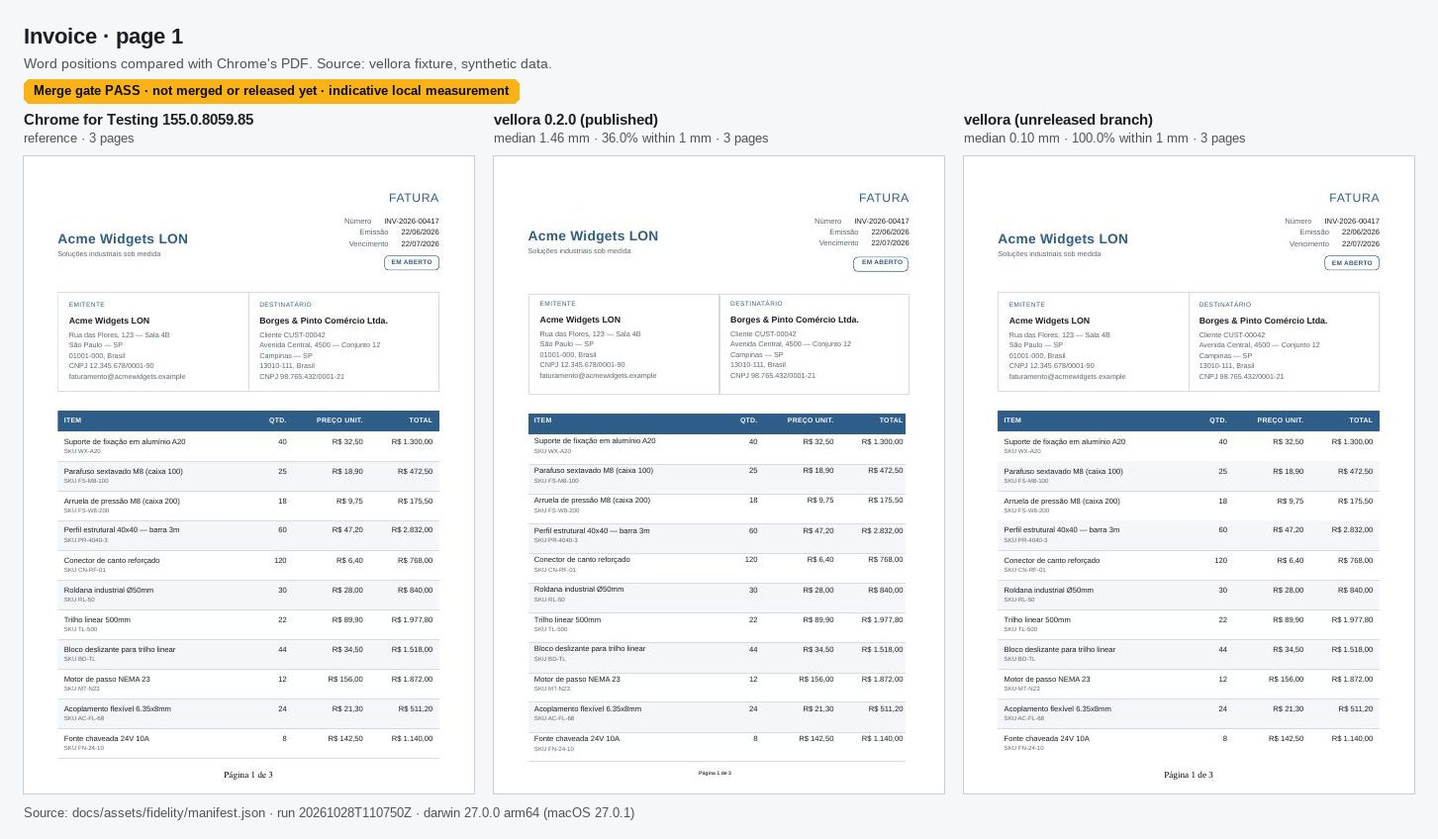
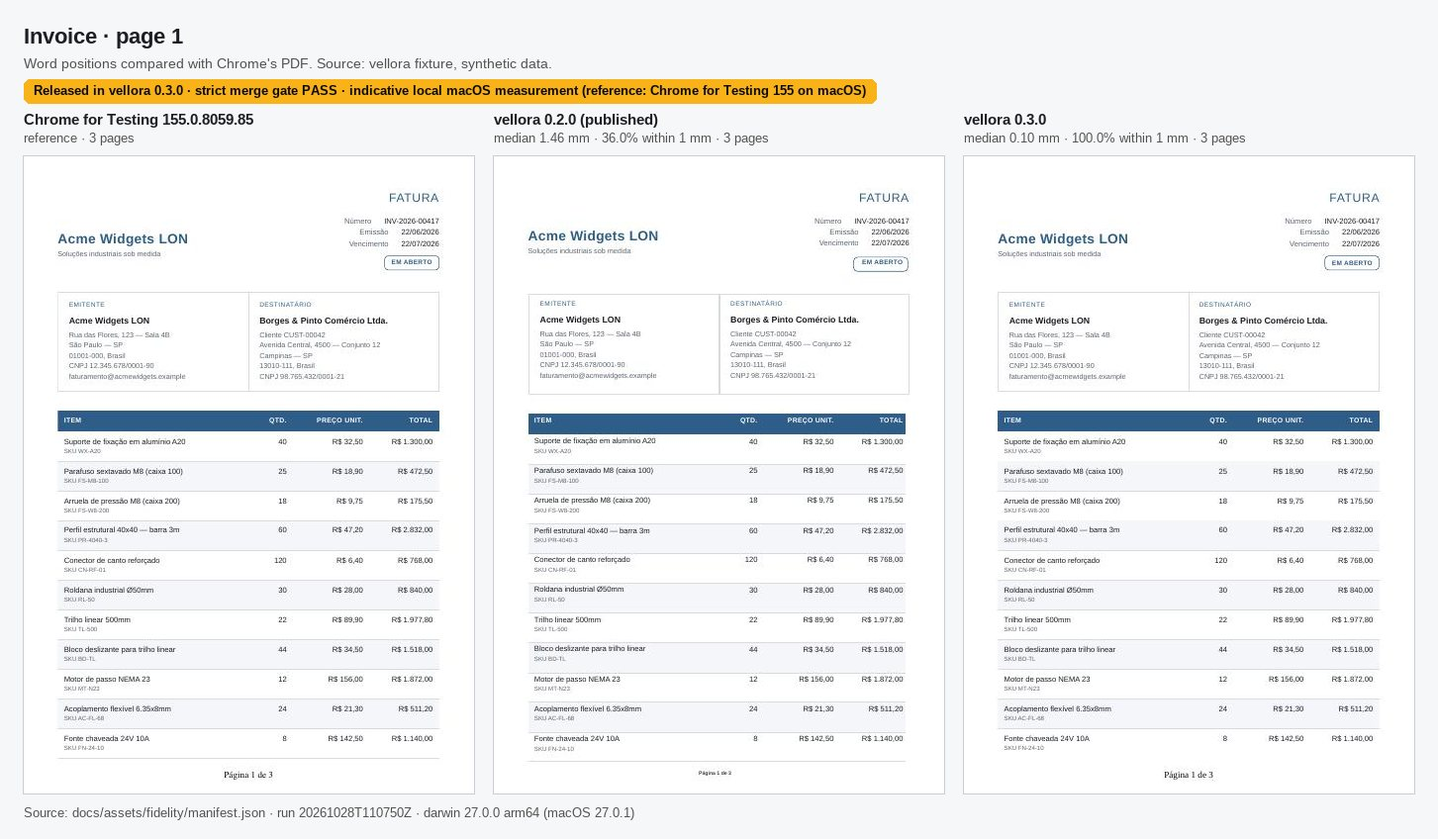
docs(fidelity): evidence released in vellora 0.3.0
Regenerate every asset from the c07 gated run with --release 0.3.0: the 12
page composites, the 3 charts, og.jpg, manifest.json and the generated blocks
in README.md, docs/guide/fidelity.md and both blog posts. Inputs are the ones
the committed manifest already records (docs-c07/visual-compare, the run's
gate-contract/gate-report.json with verdict PASS, and
c07-docs/paint-probe-pin-v0.2.0.json); their sha256 values are unchanged.

The manifest's numbers do not change: with released, release, authority,
the two after labels, commands and image hashes removed, the old and new
manifests are identical (jq -S diff).

Generator: the README block gains the WPT count as a fourth headline bullet,
and the released chart footer puts the source on its own line so the stamp
fits the 760 px width.

Prose: the guide, both blog posts, the blog index and llms.txt no longer say
not merged or released. The guide and the beta.4 post state that the measured
commit aa41259 has the same crates/, packages/, Cargo.toml and Cargo.lock as
the v0.3.0 release commit c40b3c2, and the beta.4 post's "Why it is not
released yet" becomes "How the release was gated", with the one class-b key
shipped as recorded debt and tracked in #48.

Changed region(s): [[0.031, 0.092, 0.6194, 0.1226], [0.7123, 0.1226, 0.8052, 0.1533]]

diff --git a/docs/blog/native-pdf-fidelity-blitz-beta4.md b/docs/blog/native-pdf-fidelity-blitz-beta4.md
@@ -6,8 +6,8 @@ description: How vellora moved its browserless renderer to Blitz 0.3.0-beta.4, b
 # Word by word against Chrome: measuring vellora's native PDFs
 
 <!-- fidelity-evidence:status -->
-::: tip PASS
-**This run passes the strict merge gate (verdict PASS, --contract). The branch is not merged or released yet:** it is to be merged in vellora vX.Y.Z (placeholder; the release sets the version). INDICATIVE: local macOS measurement. The authoritative run is pinned Linux CI, which is not wired yet; these numbers will be regenerated from it when it runs. The released package is vellora@0.2.0.
+::: tip Released in vellora 0.3.0
+The measured run passed the strict merge gate (verdict PASS, --contract). INDICATIVE: local macOS measurement. The authoritative run is pinned Linux CI, which is not wired yet; these numbers will be regenerated from it when it runs. Before is vellora@0.2.0, the previous release.
 :::
 <!-- /fidelity-evidence:status -->
 
@@ -17,9 +17,9 @@ output lands from what Chrome prints for the same HTML. This post answers it wit
 also covers the work that moved the numbers, and the parts that are still open.
 
 <!-- fidelity-evidence:hero -->
-![DANFE (NF-e invoice), page 1, side by side: Chrome for Testing 155.0.8059.85 (reference), vellora 0.2.0 (published), vellora (unreleased branch). Synthetic document data.](/assets/fidelity/danfe-p1.jpg)
+![DANFE (NF-e invoice), page 1, side by side: Chrome for Testing 155.0.8059.85 (reference), vellora 0.2.0 (published), vellora 0.3.0. Synthetic document data.](/assets/fidelity/danfe-p1.jpg)
 
-<sub>DANFE (NF-e invoice), page 1. Left to right: Chrome for Testing 155.0.8059.85 (reference), vellora 0.2.0 (published), vellora (unreleased branch). Median word-position error 17.68 mm → 0.21 mm; words within 1 mm 8.9% → 100.0%; pages 2 → 1 (Chrome: 1). Synthetic data.</sub>
+<sub>DANFE (NF-e invoice), page 1. Left to right: Chrome for Testing 155.0.8059.85 (reference), vellora 0.2.0 (published), vellora 0.3.0. Median word-position error 17.68 mm → 0.21 mm; words within 1 mm 8.9% → 100.0%; pages 2 → 1 (Chrome: 1). Synthetic data.</sub>
 <!-- /fidelity-evidence:hero -->
 
 ## The short version
@@ -30,9 +30,9 @@ also covers the work that moved the numbers, and the parts that are still open.
 - **9 of 9 fixtures** print the same number of pages as Chrome. vellora 0.2.0 (published): 6 of 9.
 <!-- /fidelity-evidence:headline -->
 
-"Before" is always the published package, vellora 0.2.0, which is what `npm install vellora`
-gives you today. "After" is a branch that passes its merge gate on the run measured here, and that
-has not been merged or released yet.
+"Before" is always vellora 0.2.0, the previous release; "the published package" below means
+0.2.0. "After" is vellora 0.3.0, released on 2026-10-28. Its numbers were measured on commit
+`aa41259`, whose engine and package code is identical to the `v0.3.0` release commit `c40b3c2`.
 
 ## Measure first, then change the engine
 
@@ -59,7 +59,7 @@ The rest of the work was judged by these instruments, not by eye.
 ## Blitz 0.3.0-beta.4, from crates.io
 
 vellora lays out HTML with [Blitz](https://github.com/DioxusLabs/blitz), and the published package
-uses a git revision of Blitz's 0.3.0-alpha.5 line. The branch moves to the 0.3.0-beta.4 release
+uses a git revision of Blitz's 0.3.0-alpha.5 line. vellora 0.3.0 moves to the 0.3.0-beta.4 release
 from crates.io, with no fork, and ports vellora's own layout layers to it. All Blitz access stays
 behind one module of vellora, so an upstream change is contained in one file.
 
@@ -112,7 +112,7 @@ block. The step that found this is recorded in
 [`fidelity/gate/snapshots/2026-10-28/c04/floats/README.md`](https://github.com/diomalta/vellora/blob/fidelity-archive-2026-10-28/fidelity/gate/snapshots/2026-10-28/c04/floats/README.md)
 (evidence archive, tag `fidelity-archive-2026-10-28`, commit `b5c9546`).
 
-The branch turns the feature on. That is a crates.io feature switch, not a fork. It also exposed
+vellora 0.3.0 turns the feature on. That is a crates.io feature switch, not a fork. It also exposed
 two bugs in the crates.io stack. One is in Taffy's fit test for a box placed next to a float. The
 other is in where Blitz places a float on a line that cannot wrap. Both are compensated, with
 canaries. Where engines disagree about a float on a no-wrap line, vellora follows Chrome.
@@ -157,7 +157,7 @@ Chrome's shows that the segments exist. It does not show that each one sits exac
 puts it.
 
 <!-- fidelity-evidence:paint -->
-Vector paint read from each PDF (PyMuPDF get_drawings and text spans): dashed/dotted border segments, text-decoration underlines, and whether the page canvas colour matches Chrome's. Report-only: no gate rule reads it. Each cell reads vellora 0.2.0 (published) → vellora (unreleased branch). Both are probed against this run's Chrome PDFs (the published package's PDFs through `paint-probe.mjs --subject`; the generator checks that Chrome's side of both probes agrees).
+Vector paint read from each PDF (PyMuPDF get_drawings and text spans): dashed/dotted border segments, text-decoration underlines, and whether the page canvas colour matches Chrome's. Report-only: no gate rule reads it. Each cell reads vellora 0.2.0 (published) → vellora 0.3.0. Both are probed against this run's Chrome PDFs (the published package's PDFs through `paint-probe.mjs --subject`; the generator checks that Chrome's side of both probes agrees).
 
 | Fixture | Dashed/dotted border segments, vellora / Chrome | Underlines, vellora / Chrome | Pages whose canvas colour differs from Chrome's | Probe flags |
 |---|---:|---:|---:|---:|
@@ -178,7 +178,7 @@ column lines, so the end dash of one cell overlaps the first dash of the next.
 Blitz 0.3.0-beta.4 and its layout engine, Taffy 0.15.0, have no multi-column layout and no ruby
 layout. Stylo computes `column-count` and `column-width`, and nothing reads them, so a
 `columns: 2` box was laid out as one column. Ruby annotations were printed inline, after their
-base text. The branch lays out both in vellora, behind the same single Blitz module, following
+base text. vellora 0.3.0 lays out both itself, behind the same single Blitz module, following
 Chrome's print output. A canary fails once Blitz lays multicol out itself.
 
 The first multi-column step also lost some fragmentation tests that passed before. In those tests,
@@ -226,22 +226,23 @@ What this costs, and what is still missing:
   print moves them; vellora lays them out side by side on the first page, the way Chrome lays
   them out on screen. That is why `flex-fragmented-with-float-descendant-001` is flagged. The
   harness compares only page 1 of this screen-mode test, and there vellora's ink covers more
-  columns than Chrome's. vellora also does not paint `outline`, which that test uses.
+  columns than Chrome's. vellora also does not paint `outline`, which that test uses. Both gaps
+  are tracked in [issue #48](https://github.com/diomalta/vellora/issues/48).
   One fragmentation test that the columns exposed, with a float beside a line
   (`widows-orphans-021`), still fails. It failed in the published package too.
 
 ## Results
 
 <!-- fidelity-evidence:charts -->
-![Median word-position error per fixture, vellora 0.2.0 (published) vs vellora (unreleased branch), log scale](/assets/fidelity/median-mm.svg)
+![Median word-position error per fixture, vellora 0.2.0 (published) vs vellora 0.3.0, log scale](/assets/fidelity/median-mm.svg)
 
-![Share of words within 1 mm of Chrome per fixture, vellora 0.2.0 (published) vs vellora (unreleased branch)](/assets/fidelity/within-1mm.svg)
+![Share of words within 1 mm of Chrome per fixture, vellora 0.2.0 (published) vs vellora 0.3.0](/assets/fidelity/within-1mm.svg)
 <!-- /fidelity-evidence:charts -->
 
 <!-- fidelity-evidence:table -->
-Each cell reads vellora 0.2.0 (published) → vellora (unreleased branch). Reference: Chrome for Testing 155.0.8059.85.
+Each cell reads vellora 0.2.0 (published) → vellora 0.3.0. Reference: Chrome for Testing 155.0.8059.85.
 
-| Fixture | Chrome words | Median error (mm) | p90 error (mm) | Words within 1 mm | Chrome words unpaired | Pages: 0.2.0 / branch / Chrome |
+| Fixture | Chrome words | Median error (mm) | p90 error (mm) | Words within 1 mm | Chrome words unpaired | Pages: 0.2.0 / 0.3.0 / Chrome |
 |---|---:|---:|---:|---:|---:|---:|
 | Invoice (`invoice`) | 541 | 1.46 → 0.10 | 1.73 → 0.28 | 36.0% → 100.0% | 0 → 0 | 3 / 3 / 3 |
 | Receipt (`receipt`) | 151 | 5.18 → 0.05 | 77.00 → 0.11 | 7.9% → 100.0% | 0 → 0 | 2 / 2 / 2 |
@@ -260,7 +261,7 @@ Each cell reads vellora 0.2.0 (published) → vellora (unreleased branch). Refer
 - **oss-postmark-receipt: 97.2% of words within 1 mm** (vellora 0.2.0 (published): 40.0%); p90 error 0.14 mm.
 - **WPT:** 4,553 of 8,047 reftests pass (56.58%); 4,028 (50.06%) pass without any suspect-pass flag. 2,608 still fail and 877 are rejected as outside the strict subset.
 - **Merge gate: verdict PASS** on this run (strict contract, --contract), 0 gating items. Every condition is met. What each condition still lets through is listed with it.
-  - (1) pin view (--main): no item worse than the published package unless the gate classifies it (class a: the old pass was false; class b: carried in the debt ledger): **met**. Passed with the published engine and not matched on the branch: 6 WPT tests. Class a (the old pass was false, or Chrome fails it too): `css/CSS2/floats/float-nowrap-8.html`, `css/css-page/page-name-flex-001-print.html`, `css/css-page/page-name-flex-002-print.html`, `css/css-page/page-name-flex-004-print.html`, `css/css-text/hanging-punctuation/hanging-punctuation-first-002.html`. Class b (recorded in the debt ledger, not fixed): pass on the branch with a suspect-pass flag, which the gate scores as worse than the published package's clean pass: `css/css-break/flexbox/flex-fragmented-with-float-descendant-001.html` (flag `ink-displaced-vs-chrome`; raw Blitz: fail). 10 tests that failed before are now rejected by the strict subset.
+  - (1) pin view (--main): no item worse than the published package unless the gate classifies it (class a: the old pass was false; class b: carried in the debt ledger): **met**. Passed with the published engine and not matched in 0.3.0: 6 WPT tests. Class a (the old pass was false, or Chrome fails it too): `css/CSS2/floats/float-nowrap-8.html`, `css/css-page/page-name-flex-001-print.html`, `css/css-page/page-name-flex-002-print.html`, `css/css-page/page-name-flex-004-print.html`, `css/css-text/hanging-punctuation/hanging-punctuation-first-002.html`. Class b (recorded in the debt ledger, not fixed): pass in 0.3.0 with a suspect-pass flag, which the gate scores as worse than the published package's clean pass: `css/css-break/flexbox/flex-fragmented-with-float-descendant-001.html` (flag `ink-displaced-vs-chrome`; raw Blitz: fail). 10 tests that failed before are now rejected by the strict subset.
   - (2) every fixture's median error and share within 1 mm at least as good as the published package's: **met**.
   - (3) every fixture's page count equal to Chrome's: **met**.
   - (4) step-to-step ratchet: no regression against the previous gated step, and the head view (against the chain's first step) passes: **met**. Head view: PASS; 1 test carried in the debt ledger (`css/css-break/flexbox/flex-fragmented-with-float-descendant-001.html`); 5 items accepted as class a, with the evidence in the acceptance file.
@@ -273,13 +274,13 @@ an oracle artefact.
 ## WPT: coverage, not a score
 
 <!-- fidelity-evidence:wpt-chart -->
-![WPT reftests passed: vellora 0.2.0 (published) engine, vellora (unreleased branch), Chrome reference](/assets/fidelity/wpt-pass-rate.svg)
+![WPT reftests passed: vellora 0.2.0 (published) engine, vellora 0.3.0, Chrome reference](/assets/fidelity/wpt-pass-rate.svg)
 <!-- /fidelity-evidence:wpt-chart -->
 
 <!-- fidelity-evidence:wpt -->
 WPT reftests passed through the vellora pipeline, printed to PDF and compared with the reference page: coverage of the CSS test subset the harness runs, not a document-quality score.
 
-| | Blitz 0.3.0-alpha.5 engine of vellora 0.2.0 (baseline commit with layout instrumentation) | vellora (unreleased branch) (Blitz 0.3.0-beta.4, crates.io) | Chrome/155.0.8059.85 through the same harness |
+| | Blitz 0.3.0-alpha.5 engine of vellora 0.2.0 (baseline commit with layout instrumentation) | vellora 0.3.0 (Blitz 0.3.0-beta.4, crates.io) | Chrome/155.0.8059.85 through the same harness |
 |---|---:|---:|---:|
 | Reftests | 8,047 | 8,047 | 8,046 |
 | Pass | 2,578 (32.04%) | 4,553 (56.58%) | 7,258 (90.21%) |
@@ -293,10 +294,10 @@ The WPT number shows how much of the CSS test subset now renders the way the ref
 Many of those tests exercise features no invoice uses. Others are rejected on purpose by vellora's
 strict subset. Read it as coverage. The document fixtures above are the measure of document output.
 
-## Why it is not released yet
+## How the release was gated
 
-The branch merges only when a strict oracle contract passes on one gated run. Four conditions
-must all hold:
+vellora 0.3.0 was merged only after a strict oracle contract passed on one gated run. Four
+conditions must all hold:
 
 1. No measured item may be worse than in the published package unless the gate classifies it with
    evidence. Class a means the old pass was false. Class b means it is carried in the debt
@@ -309,17 +310,16 @@ must all hold:
 The run measured here passes all four. The gate's own list of what it still lets through is under
 "What is not done" above.
 
-One test that the published package passed is still open: `flex-fragmented-with-float-descendant-001`.
-It passes on the branch with a suspect-pass flag, and the gate counts it as class b because it is
-still a debt-ledger key. That ledger entry was written when raw Blitz and the product failed the
-test the same way. They no longer do: the product now passes and raw Blitz still fails. The
-remaining gap points at vellora's own multi-column layer. Whether this one may merge as recorded debt,
-or must be fixed first, is still under review. If it is fixed first, this page is rebuilt from
-that run.
+One test that the published package passed is shipped as recorded debt:
+`flex-fragmented-with-float-descendant-001`. It passes in 0.3.0 with a suspect-pass flag, and the
+gate counts it as class b because it is still a debt-ledger key. That ledger entry was written
+when raw Blitz and the product failed the test the same way. They no longer do: the product now
+passes and raw Blitz still fails. The remaining gap is in vellora's own multi-column layer, which
+does not split overflowing columns across print pages. The fix is tracked in
+[issue #48](https://github.com/diomalta/vellora/issues/48). No document fixture uses multi-column
+layout.
 
-Passing the gate is not a release. The branch still goes through review
-and merge, and then a release, which will set the version in the status note at the top. The
-numbers are local macOS measurements. The authoritative run is pinned Linux CI, which does not
+The numbers are local macOS measurements. The authoritative run is pinned Linux CI, which does not
 run the harness yet. When it does, this page is rebuilt from that run by the same generator.
 
 ## Reproduce it
@@ -332,14 +332,14 @@ committed script, and the prose carries no measured value of its own. The method
 - Status: **PASS** (gate report verdict PASS (--contract)). INDICATIVE: local macOS measurement. The authoritative run is pinned Linux CI, which is not wired yet; these numbers will be regenerated from it when it runs.
 - Reference: Google Chrome for Testing 155.0.8059.85, headless print-to-PDF (fidelity/lib/chrome-reference.mjs).
 - Before: vellora 0.2.0 (published), tag `v0.2.0`, commit `5810062`, Blitz 0.3.0-alpha.5 line, git 2003ba5. Scored 2026-10-27T22:36:58.971Z.
-- After: vellora (unreleased branch) `phasec/07-tip`, commit `aa41259`, Blitz 0.3.0-beta.4, crates.io. Run `20261028T110750Z` (2026-10-28T11:07:50Z).
+- After: vellora 0.3.0, measured on `phasec/07-tip`, commit `aa41259`, Blitz 0.3.0-beta.4, crates.io. Run `20261028T110750Z` (2026-10-28T11:07:50Z).
 - Environment: darwin 27.0.0 arm64 (macOS 27.0.1), Apple M5 Pro, Node v22.23.2, rustc 1.96.0 (ac68faa20 2026-05-25), PyMuPDF 1.28.2, pdftoppm version 26.06.0.
 - Word positions: fidelity/oracles/py/words.py (PyMuPDF rawdict: pen origin x, baseline y); pairing: k-th occurrence of a text key in reading order (page, baseline, x) ↔ k-th in Chrome's; quantiles: nearest rank over paired words (ceil(q*n)-th smallest).
 - Run command: `node fidelity/run-all.mjs --gate --main --contract --raw --chrome '<repo>/fidelity/.cache/chrome/chrome/mac_arm-155.0.8059.85/chrome-mac-arm64/Google Chrome for Testing.app/Contents/MacOS/Google Chrome for Testing' --baseline fidelity/baselines/port/11-phase-c --chrome-from ~/Repositories/vellora-fidelity-runs/run-all-10-tip-20261023T004536Z-blitz-0.3.0-beta.4-vellora-a293cf5/wpt/results.json --tools-image vellora-fidelity-tools:baseline-beta4 --accept fidelity/gate/snapshots/2026-10-28/c07/accepted.json --step 16-phase-c-07-tip --out fidelity/results/run-all/c07-tip`
 - Gate: `node fidelity/gate/run.mjs --baseline fidelity/baselines/port/11-phase-c --run ~/Repositories/vellora-fidelity-runs/run-all-c07-tip-20261028T110750Z-blitz-0.3.0-beta.4-vellora-aa41259 --head fidelity/baselines/port/00-start --pin fidelity/baselines/pin --layout-from ~/Repositories/vellora-fidelity-runs/run-all-c07-tip-20261028T110750Z-blitz-0.3.0-beta.4-vellora-aa41259 --debt fidelity/baselines/port/DEBT.json --step 16-phase-c-07-tip --accept fidelity/gate/snapshots/2026-10-28/c07/accepted.json --doc-aggregate ~/Repositories/vellora-fidelity-runs/run-all-c07-tip-20261028T110750Z-blitz-0.3.0-beta.4-vellora-aa41259/doc-aggregate/summary.json --contract --out ~/Repositories/vellora-fidelity-runs/c07-tip/regate-contract` → PASS (2026-10-28T11:19:27.811Z).
 - Paint probe (report-only): `node fidelity/oracles/paint-probe.mjs --run <repo>/fidelity/results/run-all/c07-tip --label run-all`; published package: `node fidelity/oracles/paint-probe.mjs --run ~/Repositories/vellora-fidelity-runs/run-all-c07-tip-20261028T110750Z-blitz-0.3.0-beta.4-vellora-aa41259 --subject ~/Repositories/vellora-fidelity-runs/doc-aggregate-20261027/pin-pdfs-v0.2.0 --label pin-v0.2.0 --out ~/Repositories/vellora-fidelity-runs/docs-c07/paint-probe-pin-v0.2.0.json`.
 - Page images: `node fidelity/report/visual-compare.mjs --run <RUN> --pin-pdfs <doc-aggregate-pin.mjs --pdf-out dir> --out <compare dir> (pdftoppm -r 55), composed by fidelity/report/py/compose.py`
-- This page: `node fidelity/report/build-site-evidence.mjs --compare ~/Repositories/vellora-fidelity-runs/docs-c07/visual-compare --run ~/Repositories/vellora-fidelity-runs/run-all-c07-tip-20261028T110750Z-blitz-0.3.0-beta.4-vellora-aa41259 --gate ~/Repositories/vellora-fidelity-runs/run-all-c07-tip-20261028T110750Z-blitz-0.3.0-beta.4-vellora-aa41259/gate-contract/gate-report.json --paint-before <repo>/fidelity/gate/snapshots/2026-10-28/c07-docs/paint-probe-pin-v0.2.0.json --pin-key pin --new-key c07 --update-docs`
+- This page: `node fidelity/report/build-site-evidence.mjs --compare ~/Repositories/vellora-fidelity-runs/docs-c07/visual-compare --run ~/Repositories/vellora-fidelity-runs/run-all-c07-tip-20261028T110750Z-blitz-0.3.0-beta.4-vellora-aa41259 --gate ~/Repositories/vellora-fidelity-runs/run-all-c07-tip-20261028T110750Z-blitz-0.3.0-beta.4-vellora-aa41259/gate-contract/gate-report.json --paint-before <repo>/fidelity/gate/snapshots/2026-10-28/c07-docs/paint-probe-pin-v0.2.0.json --pin-key pin --new-key c07 --release 0.3.0 --update-docs`
 - Raw values: [manifest.json](https://github.com/diomalta/vellora/blob/main/docs/assets/fidelity/manifest.json).
 <!-- /fidelity-evidence:env -->
 

diff --git a/docs/guide/fidelity.md b/docs/guide/fidelity.md
@@ -29,14 +29,16 @@ For migration work, keep your current browser-generated PDF as the reference unt
 ## Measured fidelity
 
 This section measures how close the native PDF lands to Chrome's print-to-PDF output for the same
-HTML. It compares the published package with an unreleased branch. Every number on this page is
-generated from one manifest,
+HTML. It compares vellora 0.2.0, the previous release, with vellora 0.3.0. The 0.3.0 numbers were
+measured on commit `aa41259`, whose `crates/`, `packages/`, `Cargo.toml` and `Cargo.lock` are
+identical to the `v0.3.0` release commit `c40b3c2` (`git diff --stat aa41259 c40b3c2 -- crates
+packages Cargo.toml Cargo.lock` is empty). Every number on this page is generated from one manifest,
 [`docs/assets/fidelity/manifest.json`](https://github.com/diomalta/vellora/blob/main/docs/assets/fidelity/manifest.json).
 The tables are rewritten by the generator, so they cannot drift from it.
 
 <!-- fidelity-evidence:status -->
-::: tip PASS
-**This run passes the strict merge gate (verdict PASS, --contract). The branch is not merged or released yet:** it is to be merged in vellora vX.Y.Z (placeholder; the release sets the version). INDICATIVE: local macOS measurement. The authoritative run is pinned Linux CI, which is not wired yet; these numbers will be regenerated from it when it runs. The released package is vellora@0.2.0.
+::: tip Released in vellora 0.3.0
+The measured run passed the strict merge gate (verdict PASS, --contract). INDICATIVE: local macOS measurement. The authoritative run is pinned Linux CI, which is not wired yet; these numbers will be regenerated from it when it runs. Before is vellora@0.2.0, the previous release.
 :::
 <!-- /fidelity-evidence:status -->
 
@@ -76,15 +78,15 @@ The tables are rewritten by the generator, so they cannot drift from it.
 <!-- /fidelity-evidence:headline -->
 
 <!-- fidelity-evidence:charts -->
-![Median word-position error per fixture, vellora 0.2.0 (published) vs vellora (unreleased branch), log scale](/assets/fidelity/median-mm.svg)
+![Median word-position error per fixture, vellora 0.2.0 (published) vs vellora 0.3.0, log scale](/assets/fidelity/median-mm.svg)
 
-![Share of words within 1 mm of Chrome per fixture, vellora 0.2.0 (published) vs vellora (unreleased branch)](/assets/fidelity/within-1mm.svg)
+![Share of words within 1 mm of Chrome per fixture, vellora 0.2.0 (published) vs vellora 0.3.0](/assets/fidelity/within-1mm.svg)
 <!-- /fidelity-evidence:charts -->
 
 <!-- fidelity-evidence:table -->
-Each cell reads vellora 0.2.0 (published) → vellora (unreleased branch). Reference: Chrome for Testing 155.0.8059.85.
+Each cell reads vellora 0.2.0 (published) → vellora 0.3.0. Reference: Chrome for Testing 155.0.8059.85.
 
-| Fixture | Chrome words | Median error (mm) | p90 error (mm) | Words within 1 mm | Chrome words unpaired | Pages: 0.2.0 / branch / Chrome |
+| Fixture | Chrome words | Median error (mm) | p90 error (mm) | Words within 1 mm | Chrome words unpaired | Pages: 0.2.0 / 0.3.0 / Chrome |
 |---|---:|---:|---:|---:|---:|---:|
 | Invoice (`invoice`) | 541 | 1.46 → 0.10 | 1.73 → 0.28 | 36.0% → 100.0% | 0 → 0 | 3 / 3 / 3 |
 | Receipt (`receipt`) | 151 | 5.18 → 0.05 | 77.00 → 0.11 | 7.9% → 100.0% | 0 → 0 | 2 / 2 / 2 |
@@ -103,7 +105,7 @@ Each cell reads vellora 0.2.0 (published) → vellora (unreleased branch). Refer
 - **oss-postmark-receipt: 97.2% of words within 1 mm** (vellora 0.2.0 (published): 40.0%); p90 error 0.14 mm.
 - **WPT:** 4,553 of 8,047 reftests pass (56.58%); 4,028 (50.06%) pass without any suspect-pass flag. 2,608 still fail and 877 are rejected as outside the strict subset.
 - **Merge gate: verdict PASS** on this run (strict contract, --contract), 0 gating items. Every condition is met. What each condition still lets through is listed with it.
-  - (1) pin view (--main): no item worse than the published package unless the gate classifies it (class a: the old pass was false; class b: carried in the debt ledger): **met**. Passed with the published engine and not matched on the branch: 6 WPT tests. Class a (the old pass was false, or Chrome fails it too): `css/CSS2/floats/float-nowrap-8.html`, `css/css-page/page-name-flex-001-print.html`, `css/css-page/page-name-flex-002-print.html`, `css/css-page/page-name-flex-004-print.html`, `css/css-text/hanging-punctuation/hanging-punctuation-first-002.html`. Class b (recorded in the debt ledger, not fixed): pass on the branch with a suspect-pass flag, which the gate scores as worse than the published package's clean pass: `css/css-break/flexbox/flex-fragmented-with-float-descendant-001.html` (flag `ink-displaced-vs-chrome`; raw Blitz: fail). 10 tests that failed before are now rejected by the strict subset.
+  - (1) pin view (--main): no item worse than the published package unless the gate classifies it (class a: the old pass was false; class b: carried in the debt ledger): **met**. Passed with the published engine and not matched in 0.3.0: 6 WPT tests. Class a (the old pass was false, or Chrome fails it too): `css/CSS2/floats/float-nowrap-8.html`, `css/css-page/page-name-flex-001-print.html`, `css/css-page/page-name-flex-002-print.html`, `css/css-page/page-name-flex-004-print.html`, `css/css-text/hanging-punctuation/hanging-punctuation-first-002.html`. Class b (recorded in the debt ledger, not fixed): pass in 0.3.0 with a suspect-pass flag, which the gate scores as worse than the published package's clean pass: `css/css-break/flexbox/flex-fragmented-with-float-descendant-001.html` (flag `ink-displaced-vs-chrome`; raw Blitz: fail). 10 tests that failed before are now rejected by the strict subset.
   - (2) every fixture's median error and share within 1 mm at least as good as the published package's: **met**.
   - (3) every fixture's page count equal to Chrome's: **met**.
   - (4) step-to-step ratchet: no regression against the previous gated step, and the head view (against the chain's first step) passes: **met**. Head view: PASS; 1 test carried in the debt ledger (`css/css-break/flexbox/flex-fragmented-with-float-descendant-001.html`); 5 items accepted as class a, with the evidence in the acceptance file.
@@ -112,13 +114,13 @@ Each cell reads vellora 0.2.0 (published) → vellora (unreleased branch). Refer
 ### WPT subset coverage
 
 <!-- fidelity-evidence:wpt-chart -->
-![WPT reftests passed: vellora 0.2.0 (published) engine, vellora (unreleased branch), Chrome reference](/assets/fidelity/wpt-pass-rate.svg)
+![WPT reftests passed: vellora 0.2.0 (published) engine, vellora 0.3.0, Chrome reference](/assets/fidelity/wpt-pass-rate.svg)
 <!-- /fidelity-evidence:wpt-chart -->
 
 <!-- fidelity-evidence:wpt -->
 WPT reftests passed through the vellora pipeline, printed to PDF and compared with the reference page: coverage of the CSS test subset the harness runs, not a document-quality score.
 
-| | Blitz 0.3.0-alpha.5 engine of vellora 0.2.0 (baseline commit with layout instrumentation) | vellora (unreleased branch) (Blitz 0.3.0-beta.4, crates.io) | Chrome/155.0.8059.85 through the same harness |
+| | Blitz 0.3.0-alpha.5 engine of vellora 0.2.0 (baseline commit with layout instrumentation) | vellora 0.3.0 (Blitz 0.3.0-beta.4, crates.io) | Chrome/155.0.8059.85 through the same harness |
 |---|---:|---:|---:|
 | Reftests | 8,047 | 8,047 | 8,046 |
 | Pass | 2,578 (32.04%) | 4,553 (56.58%) | 7,258 (90.21%) |
@@ -131,7 +133,7 @@ Commits: 2c66544 (2026-10-21T05:41:54Z), aa41259 (2026-10-28T11:07:50Z); WPT `9d
 ### Paint
 
 <!-- fidelity-evidence:paint -->
-Vector paint read from each PDF (PyMuPDF get_drawings and text spans): dashed/dotted border segments, text-decoration underlines, and whether the page canvas colour matches Chrome's. Report-only: no gate rule reads it. Each cell reads vellora 0.2.0 (published) → vellora (unreleased branch). Both are probed against this run's Chrome PDFs (the published package's PDFs through `paint-probe.mjs --subject`; the generator checks that Chrome's side of both probes agrees).
+Vector paint read from each PDF (PyMuPDF get_drawings and text spans): dashed/dotted border segments, text-decoration underlines, and whether the page canvas colour matches Chrome's. Report-only: no gate rule reads it. Each cell reads vellora 0.2.0 (published) → vellora 0.3.0. Both are probed against this run's Chrome PDFs (the published package's PDFs through `paint-probe.mjs --subject`; the generator checks that Chrome's side of both probes agrees).
 
 | Fixture | Dashed/dotted border segments, vellora / Chrome | Underlines, vellora / Chrome | Pages whose canvas colour differs from Chrome's | Probe flags |
 |---|---:|---:|---:|---:|
@@ -145,55 +147,55 @@ The other 5 fixtures have no dashed borders, underlines or canvas colour in eith
 
 ### Page by page
 
-Each image shows Chrome (the reference) on the left, the published package in the middle and the
-unreleased branch on the right. Page 1 is shown for every fixture. Any page that exists in only
+Each image shows Chrome (the reference) on the left, vellora 0.2.0 in the middle and vellora 0.3.0
+on the right. Page 1 is shown for every fixture. Any page that exists in only
 some of the three PDFs is also shown, with an explicit "no page" placeholder where a PDF has none.
 The document data is synthetic.
 
 <!-- fidelity-evidence:gallery -->
 #### Invoice
 
-![Invoice, page 1: Chrome for Testing 155.0.8059.85, vellora 0.2.0 (published), vellora (unreleased branch)](/assets/fidelity/invoice-p1.jpg)
+![Invoice, page 1: Chrome for Testing 155.0.8059.85, vellora 0.2.0 (published), vellora 0.3.0](/assets/fidelity/invoice-p1.jpg)
 
 #### Receipt
 
-![Receipt, page 1: Chrome for Testing 155.0.8059.85, vellora 0.2.0 (published), vellora (unreleased branch)](/assets/fidelity/receipt-p1.jpg)
+![Receipt, page 1: Chrome for Testing 155.0.8059.85, vellora 0.2.0 (published), vellora 0.3.0](/assets/fidelity/receipt-p1.jpg)
 
 #### Boleto (bank slip)
 
-![Boleto (bank slip), page 1: Chrome for Testing 155.0.8059.85, vellora 0.2.0 (published), vellora (unreleased branch)](/assets/fidelity/boleto-p1.jpg)
+![Boleto (bank slip), page 1: Chrome for Testing 155.0.8059.85, vellora 0.2.0 (published), vellora 0.3.0](/assets/fidelity/boleto-p1.jpg)
 
 #### Boleto, FEBRABAN layout
 
-![Boleto, FEBRABAN layout, page 1: Chrome for Testing 155.0.8059.85, vellora 0.2.0 (published), vellora (unreleased branch)](/assets/fidelity/boleto-febraban-p1.jpg)
+![Boleto, FEBRABAN layout, page 1: Chrome for Testing 155.0.8059.85, vellora 0.2.0 (published), vellora 0.3.0](/assets/fidelity/boleto-febraban-p1.jpg)
 
 #### DANFE (NF-e invoice)
 
-![DANFE (NF-e invoice), page 1: Chrome for Testing 155.0.8059.85, vellora 0.2.0 (published), vellora (unreleased branch)](/assets/fidelity/danfe-p1.jpg)
+![DANFE (NF-e invoice), page 1: Chrome for Testing 155.0.8059.85, vellora 0.2.0 (published), vellora 0.3.0](/assets/fidelity/danfe-p1.jpg)
 
-![DANFE (NF-e invoice), page 2: Chrome for Testing 155.0.8059.85, vellora 0.2.0 (published), vellora (unreleased branch)](/assets/fidelity/danfe-p2.jpg)
+![DANFE (NF-e invoice), page 2: Chrome for Testing 155.0.8059.85, vellora 0.2.0 (published), vellora 0.3.0](/assets/fidelity/danfe-p2.jpg)
 
 #### Notification letter
 
-![Notification letter, page 1: Chrome for Testing 155.0.8059.85, vellora 0.2.0 (published), vellora (unreleased branch)](/assets/fidelity/notification-p1.jpg)
+![Notification letter, page 1: Chrome for Testing 155.0.8059.85, vellora 0.2.0 (published), vellora 0.3.0](/assets/fidelity/notification-p1.jpg)
 
 #### Long pt-BR text (stress)
 
-![Long pt-BR text (stress), page 1: Chrome for Testing 155.0.8059.85, vellora 0.2.0 (published), vellora (unreleased branch)](/assets/fidelity/text-stress-ptbr-p1.jpg)
+![Long pt-BR text (stress), page 1: Chrome for Testing 155.0.8059.85, vellora 0.2.0 (published), vellora 0.3.0](/assets/fidelity/text-stress-ptbr-p1.jpg)
 
-![Long pt-BR text (stress), page 8: Chrome for Testing 155.0.8059.85, vellora 0.2.0 (published), vellora (unreleased branch)](/assets/fidelity/text-stress-ptbr-p8.jpg)
+![Long pt-BR text (stress), page 8: Chrome for Testing 155.0.8059.85, vellora 0.2.0 (published), vellora 0.3.0](/assets/fidelity/text-stress-ptbr-p8.jpg)
 
 #### Postmark receipt (OSS template)
 
-![Postmark receipt (OSS template), page 1: Chrome for Testing 155.0.8059.85, vellora 0.2.0 (published), vellora (unreleased branch)](/assets/fidelity/oss-postmark-receipt-p1.jpg)
+![Postmark receipt (OSS template), page 1: Chrome for Testing 155.0.8059.85, vellora 0.2.0 (published), vellora 0.3.0](/assets/fidelity/oss-postmark-receipt-p1.jpg)
 
-![Postmark receipt (OSS template), page 2: Chrome for Testing 155.0.8059.85, vellora 0.2.0 (published), vellora (unreleased branch)](/assets/fidelity/oss-postmark-receipt-p2.jpg)
+![Postmark receipt (OSS template), page 2: Chrome for Testing 155.0.8059.85, vellora 0.2.0 (published), vellora 0.3.0](/assets/fidelity/oss-postmark-receipt-p2.jpg)
 
 <sub>Postmark receipt (OSS template) is adapted from [ActiveCampaign/postmark-templates](https://github.com/ActiveCampaign/postmark-templates) (commit `fa73527`), MIT licence, Copyright (c) 2015 Wildbit; see [NOTICE](https://github.com/diomalta/vellora/blob/main/fixtures/oss-postmark-receipt/NOTICE.md).</sub>
 
 #### Sparksuite simple invoice (OSS template)
 
-![Sparksuite simple invoice (OSS template), page 1: Chrome for Testing 155.0.8059.85, vellora 0.2.0 (published), vellora (unreleased branch)](/assets/fidelity/oss-sparksuite-invoice-p1.jpg)
+![Sparksuite simple invoice (OSS template), page 1: Chrome for Testing 155.0.8059.85, vellora 0.2.0 (published), vellora 0.3.0](/assets/fidelity/oss-sparksuite-invoice-p1.jpg)
 
 <sub>Sparksuite simple invoice (OSS template) is adapted from [sparksuite/simple-html-invoice-template](https://github.com/sparksuite/simple-html-invoice-template) (commit `7d74fe3`), MIT licence, Copyright (c) 2021 Sparksuite; see [NOTICE](https://github.com/diomalta/vellora/blob/main/fixtures/oss-sparksuite-invoice/NOTICE.md).</sub>
 <!-- /fidelity-evidence:gallery -->
@@ -204,14 +206,14 @@ The document data is synthetic.
 - Status: **PASS** (gate report verdict PASS (--contract)). INDICATIVE: local macOS measurement. The authoritative run is pinned Linux CI, which is not wired yet; these numbers will be regenerated from it when it runs.
 - Reference: Google Chrome for Testing 155.0.8059.85, headless print-to-PDF (fidelity/lib/chrome-reference.mjs).
 - Before: vellora 0.2.0 (published), tag `v0.2.0`, commit `5810062`, Blitz 0.3.0-alpha.5 line, git 2003ba5. Scored 2026-10-27T22:36:58.971Z.
-- After: vellora (unreleased branch) `phasec/07-tip`, commit `aa41259`, Blitz 0.3.0-beta.4, crates.io. Run `20261028T110750Z` (2026-10-28T11:07:50Z).
+- After: vellora 0.3.0, measured on `phasec/07-tip`, commit `aa41259`, Blitz 0.3.0-beta.4, crates.io. Run `20261028T110750Z` (2026-10-28T11:07:50Z).
 - Environment: darwin 27.0.0 arm64 (macOS 27.0.1), Apple M5 Pro, Node v22.23.2, rustc 1.96.0 (ac68faa20 2026-05-25), PyMuPDF 1.28.2, pdftoppm version 26.06.0.
 - Word positions: fidelity/oracles/py/words.py (PyMuPDF rawdict: pen origin x, baseline y); pairing: k-th occurrence of a text key in reading order (page, baseline, x) ↔ k-th in Chrome's; quantiles: nearest rank over paired words (ceil(q*n)-th smallest).
 - Run command: `node fidelity/run-all.mjs --gate --main --contract --raw --chrome '<repo>/fidelity/.cache/chrome/chrome/mac_arm-155.0.8059.85/chrome-mac-arm64/Google Chrome for Testing.app/Contents/MacOS/Google Chrome for Testing' --baseline fidelity/baselines/port/11-phase-c --chrome-from ~/Repositories/vellora-fidelity-runs/run-all-10-tip-20261023T004536Z-blitz-0.3.0-beta.4-vellora-a293cf5/wpt/results.json --tools-image vellora-fidelity-tools:baseline-beta4 --accept fidelity/gate/snapshots/2026-10-28/c07/accepted.json --step 16-phase-c-07-tip --out fidelity/results/run-all/c07-tip`
 - Gate: `node fidelity/gate/run.mjs --baseline fidelity/baselines/port/11-phase-c --run ~/Repositories/vellora-fidelity-runs/run-all-c07-tip-20261028T110750Z-blitz-0.3.0-beta.4-vellora-aa41259 --head fidelity/baselines/port/00-start --pin fidelity/baselines/pin --layout-from ~/Repositories/vellora-fidelity-runs/run-all-c07-tip-20261028T110750Z-blitz-0.3.0-beta.4-vellora-aa41259 --debt fidelity/baselines/port/DEBT.json --step 16-phase-c-07-tip --accept fidelity/gate/snapshots/2026-10-28/c07/accepted.json --doc-aggregate ~/Repositories/vellora-fidelity-runs/run-all-c07-tip-20261028T110750Z-blitz-0.3.0-beta.4-vellora-aa41259/doc-aggregate/summary.json --contract --out ~/Repositories/vellora-fidelity-runs/c07-tip/regate-contract` → PASS (2026-10-28T11:19:27.811Z).
 - Paint probe (report-only): `node fidelity/oracles/paint-probe.mjs --run <repo>/fidelity/results/run-all/c07-tip --label run-all`; published package: `node fidelity/oracles/paint-probe.mjs --run ~/Repositories/vellora-fidelity-runs/run-all-c07-tip-20261028T110750Z-blitz-0.3.0-beta.4-vellora-aa41259 --subject ~/Repositories/vellora-fidelity-runs/doc-aggregate-20261027/pin-pdfs-v0.2.0 --label pin-v0.2.0 --out ~/Repositories/vellora-fidelity-runs/docs-c07/paint-probe-pin-v0.2.0.json`.
 - Page images: `node fidelity/report/visual-compare.mjs --run <RUN> --pin-pdfs <doc-aggregate-pin.mjs --pdf-out dir> --out <compare dir> (pdftoppm -r 55), composed by fidelity/report/py/compose.py`
-- This page: `node fidelity/report/build-site-evidence.mjs --compare ~/Repositories/vellora-fidelity-runs/docs-c07/visual-compare --run ~/Repositories/vellora-fidelity-runs/run-all-c07-tip-20261028T110750Z-blitz-0.3.0-beta.4-vellora-aa41259 --gate ~/Repositories/vellora-fidelity-runs/run-all-c07-tip-20261028T110750Z-blitz-0.3.0-beta.4-vellora-aa41259/gate-contract/gate-report.json --paint-before <repo>/fidelity/gate/snapshots/2026-10-28/c07-docs/paint-probe-pin-v0.2.0.json --pin-key pin --new-key c07 --update-docs`
+- This page: `node fidelity/report/build-site-evidence.mjs --compare ~/Repositories/vellora-fidelity-runs/docs-c07/visual-compare --run ~/Repositories/vellora-fidelity-runs/run-all-c07-tip-20261028T110750Z-blitz-0.3.0-beta.4-vellora-aa41259 --gate ~/Repositories/vellora-fidelity-runs/run-all-c07-tip-20261028T110750Z-blitz-0.3.0-beta.4-vellora-aa41259/gate-contract/gate-report.json --paint-before <repo>/fidelity/gate/snapshots/2026-10-28/c07-docs/paint-probe-pin-v0.2.0.json --pin-key pin --new-key c07 --release 0.3.0 --update-docs`
 - Raw values: [manifest.json](https://github.com/diomalta/vellora/blob/main/docs/assets/fidelity/manifest.json).
 <!-- /fidelity-evidence:env -->
 

diff --git a/README.md b/README.md
@@ -110,17 +110,18 @@ word on the repo's document fixtures. Before is the published package; after is 
 not released.
 
 <!-- fidelity-evidence:readme -->
-> **This run passes the strict merge gate (verdict PASS, --contract). The branch is not merged or released yet:** it is to be merged in vellora vX.Y.Z (placeholder; the release sets the version). INDICATIVE: local macOS measurement. The authoritative run is pinned Linux CI, which is not wired yet; these numbers will be regenerated from it when it runs. The released package is vellora@0.2.0.
+> **Released in vellora 0.3.0.** The measured run passed the strict merge gate (verdict PASS, --contract). INDICATIVE: local macOS measurement. The authoritative run is pinned Linux CI, which is not wired yet; these numbers will be regenerated from it when it runs. Before is vellora@0.2.0, the previous release.
 
-![DANFE (NF-e invoice), page 1, side by side: Chrome for Testing 155.0.8059.85 (reference), vellora 0.2.0 (published), vellora (unreleased branch). Synthetic document data.](./docs/assets/fidelity/danfe-p1.jpg)
+![DANFE (NF-e invoice), page 1, side by side: Chrome for Testing 155.0.8059.85 (reference), vellora 0.2.0 (published), vellora 0.3.0. Synthetic document data.](./docs/assets/fidelity/danfe-p1.jpg)
 
-<sub>DANFE (NF-e invoice), page 1. Left to right: Chrome for Testing 155.0.8059.85 (reference), vellora 0.2.0 (published), vellora (unreleased branch). Median word-position error 17.68 mm → 0.21 mm; words within 1 mm 8.9% → 100.0%; pages 2 → 1 (Chrome: 1). Synthetic data.</sub>
+<sub>DANFE (NF-e invoice), page 1. Left to right: Chrome for Testing 155.0.8059.85 (reference), vellora 0.2.0 (published), vellora 0.3.0. Median word-position error 17.68 mm → 0.21 mm; words within 1 mm 8.9% → 100.0%; pages 2 → 1 (Chrome: 1). Synthetic data.</sub>
 
 Measured against Chrome for Testing 155.0.8059.85 headless print-to-PDF on 9 document fixtures, comparing the position of every word in each PDF:
 
 - **8 of 9 fixtures** have every word within 1 mm of its position in Chrome for Testing 155.0.8059.85's PDF (share of word positions within 1 mm = 100%). vellora 0.2.0 (published): 0 of 9.
 - **0.21 mm or less** median word-position error on every one of the 9 fixtures (largest: danfe). vellora 0.2.0 (published): up to 106.22 mm (text-stress-ptbr).
 - **9 of 9 fixtures** print the same number of pages as Chrome. vellora 0.2.0 (published): 6 of 9.
+- **4,553 of 8,047 WPT reftests** pass through the same pipeline (56.58%), coverage of the CSS test subset the harness runs, not a document-quality score. vellora 0.2.0 (published) engine: 2,578 (32.04%).
 
 Method, the full table with the losses, and how to reproduce it: [Measured fidelity](https://diomalta.github.io/vellora/guide/fidelity#measured-fidelity). Raw values: [manifest.json](./docs/assets/fidelity/manifest.json).
 <!-- /fidelity-evidence:readme -->

diff --git a/docs/blog/html-to-pdf-nodejs-without-puppeteer.md b/docs/blog/html-to-pdf-nodejs-without-puppeteer.md
@@ -23,19 +23,19 @@ That is the reason Vellora exists.
 How close does a browserless renderer get to a browser? The current answer is measured word by
 word against Chrome's print-to-PDF output and published in
 [Measured fidelity](/guide/fidelity#measured-fidelity). That page replaces the pixel-diff snapshot
-this article used to show. It compares the published package with an unreleased branch, and it
-lists the losses next to the gains.
+this article used to show. It compares vellora 0.2.0 with vellora 0.3.0, and it lists the losses
+next to the gains.
 
 <!-- fidelity-evidence:status -->
-::: tip PASS
-**This run passes the strict merge gate (verdict PASS, --contract). The branch is not merged or released yet:** it is to be merged in vellora vX.Y.Z (placeholder; the release sets the version). INDICATIVE: local macOS measurement. The authoritative run is pinned Linux CI, which is not wired yet; these numbers will be regenerated from it when it runs. The released package is vellora@0.2.0.
+::: tip Released in vellora 0.3.0
+The measured run passed the strict merge gate (verdict PASS, --contract). INDICATIVE: local macOS measurement. The authoritative run is pinned Linux CI, which is not wired yet; these numbers will be regenerated from it when it runs. Before is vellora@0.2.0, the previous release.
 :::
 <!-- /fidelity-evidence:status -->
 
 <!-- fidelity-evidence:hero -->
-![DANFE (NF-e invoice), page 1, side by side: Chrome for Testing 155.0.8059.85 (reference), vellora 0.2.0 (published), vellora (unreleased branch). Synthetic document data.](/assets/fidelity/danfe-p1.jpg)
+![DANFE (NF-e invoice), page 1, side by side: Chrome for Testing 155.0.8059.85 (reference), vellora 0.2.0 (published), vellora 0.3.0. Synthetic document data.](/assets/fidelity/danfe-p1.jpg)
 
-<sub>DANFE (NF-e invoice), page 1. Left to right: Chrome for Testing 155.0.8059.85 (reference), vellora 0.2.0 (published), vellora (unreleased branch). Median word-position error 17.68 mm → 0.21 mm; words within 1 mm 8.9% → 100.0%; pages 2 → 1 (Chrome: 1). Synthetic data.</sub>
+<sub>DANFE (NF-e invoice), page 1. Left to right: Chrome for Testing 155.0.8059.85 (reference), vellora 0.2.0 (published), vellora 0.3.0. Median word-position error 17.68 mm → 0.21 mm; words within 1 mm 8.9% → 100.0%; pages 2 → 1 (Chrome: 1). Synthetic data.</sub>
 <!-- /fidelity-evidence:hero -->
 
 Vellora is an HTML-to-PDF renderer for Node.js with a native, in-process default path. The default

diff --git a/docs/blog/index.md b/docs/blog/index.md
@@ -10,4 +10,4 @@ Practical notes on HTML to PDF rendering for generated documents.
 ## Articles
 
 - [HTML to PDF in Node.js without Puppeteer or Chromium](/blog/html-to-pdf-nodejs-without-puppeteer)
-- [Word by word against Chrome: measuring vellora's native PDFs](/blog/native-pdf-fidelity-blitz-beta4) (results from an unreleased branch that passes its merge gate; not released yet)
+- [Word by word against Chrome: measuring vellora's native PDFs](/blog/native-pdf-fidelity-blitz-beta4) (released in vellora 0.3.0)
